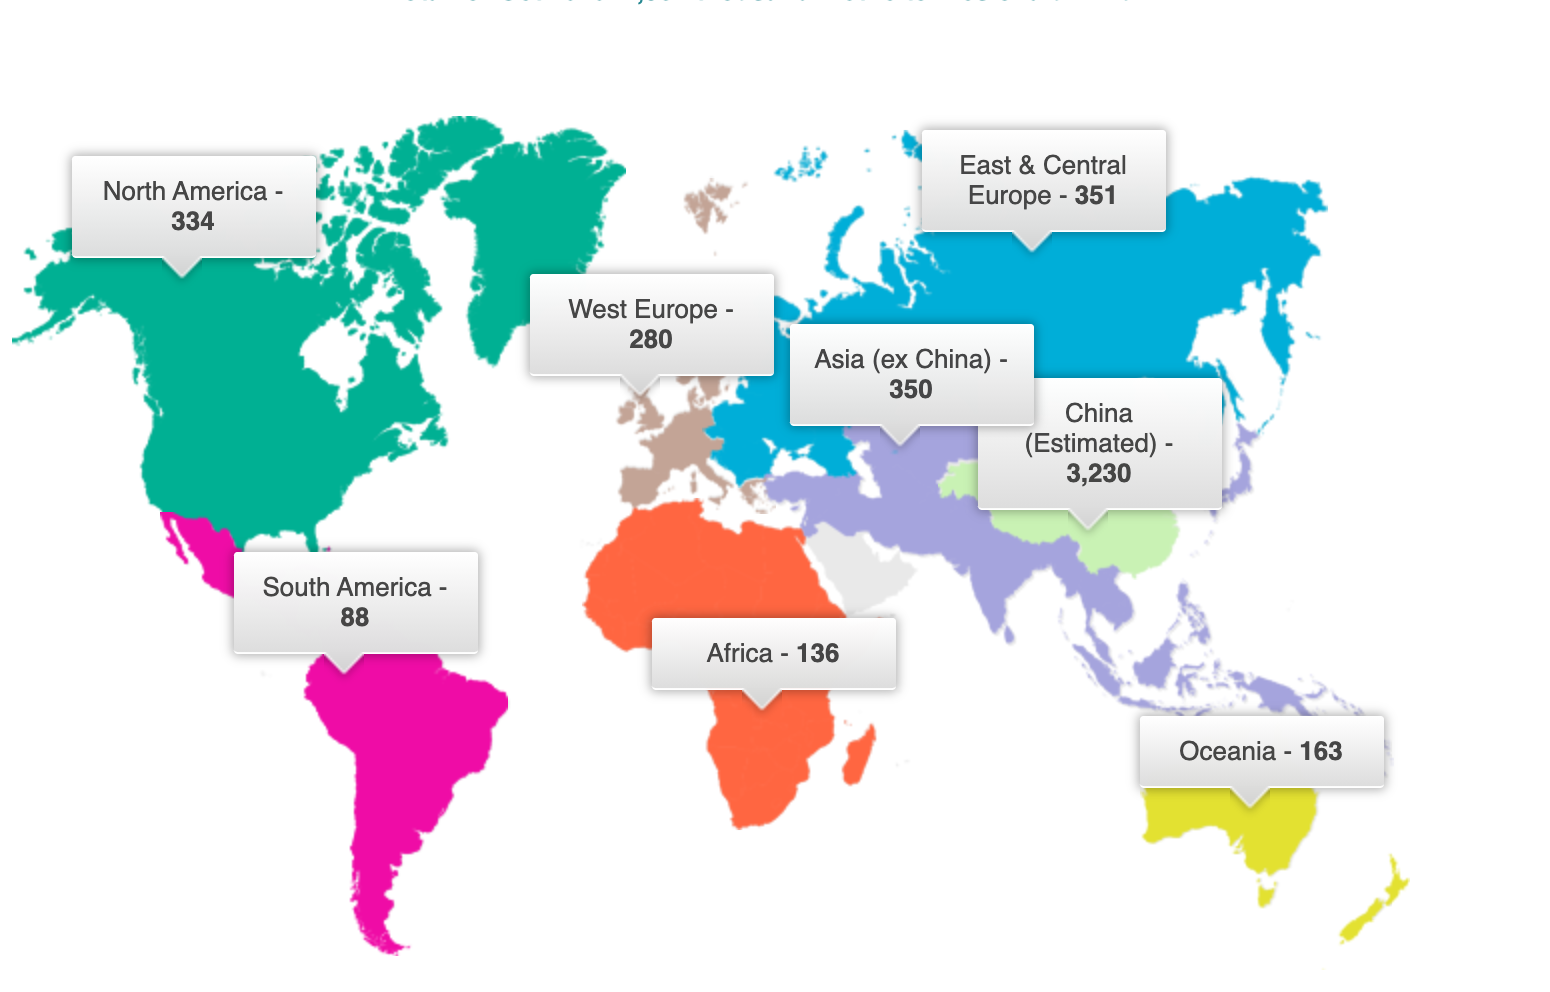
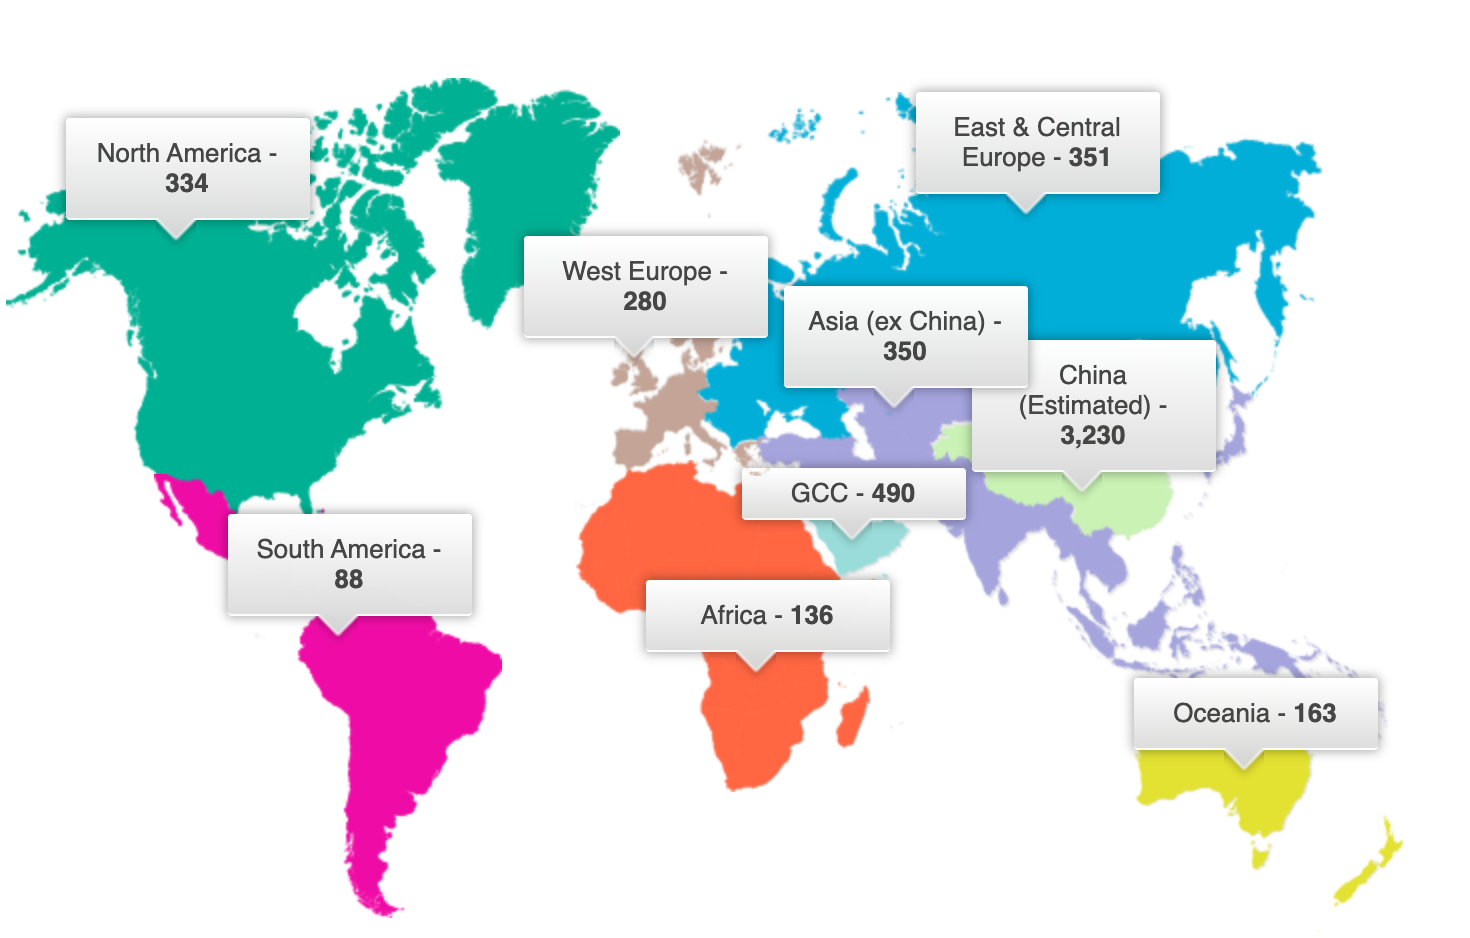
add

Changed region(s): [[0.0, 0.0618, 0.949, 0.9584], [0.0918, 0.4638, 0.3367, 0.9893], [0.0306, 0.1237, 0.0612, 0.1546]]

diff --git a/xFinal_pres/index.html b/xFinal_pres/index.html
@@ -88,6 +88,7 @@
   </div>
       <br><br><hr><br><br>
       <iframe title="Aluminum Production Total for Oct. 2020" aria-label="Map" id="datawrapper-chart-Ff3NN" src="https://datawrapper.dwcdn.net/Ff3NN/1/" scrolling="no" frameborder="0" style="width: 0; min-width: 100% !important; border: none;" height="476"></iframe><script type="text/javascript">!function(){"use strict";window.addEventListener("message",(function(a){if(void 0!==a.data["datawrapper-height"])for(var e in a.data["datawrapper-height"]){var t=document.getElementById("datawrapper-chart-"+e)||document.querySelector("iframe[src*='"+e+"']");t&&(t.style.height=a.data["datawrapper-height"][e]+"px")}}))}();
+    </script>
 
   <div class="row justify-content-center">
     <div class="col-10">
@@ -98,34 +99,19 @@
     <div class="col-7" style="min-width: 600px">
 
 
-      <p>In fact, when many can-recycling programs temporarily closed due to the COVID-19 pandemic earlier this year, the United States simply increased imports of used beverage can scrap metal.</p>
+
 
     </div>
   </div>
 </div>
-<img src="oct_2020.jpg" alt="graph" >
-<p class="caption">Solomon Simmons in his East Baltimore home (Photo by Amina Lampkin | University of Maryland)</p>
+
+
+<img src="oct_2020.jpg"  alt="gragh" height="700px" width="1150px">
+<p class="caption">Source: @2020, The International Aluminum Institute</p>
 <div class="container">
   <div class="row justify-content-center">
     <div class="col-7" style="min-width: 600px">
-      <p>Public health studies have shown that without community cohesion, residents are at more risk when temperatures soar. Baltimore health officials say that isolation is always a danger to health.</p>
-      <p>Today, Simmons said, many of his old neighbors have died. Only about four people remain from the group of homeowners his mother met when she moved to McElderry Park in the 1980s.</p>
-      <p>“Pride is gone,” he said.</p>
-      <p>He will not put an air-conditioning unit in a first-floor window facing the street “because of security.” He has air conditioning in his bedroom, but he’s mindful that using it costs money.</p>
-      <p>“One of the things that does concern me is that my electric bill will probably be a lot more just trying to stay cool.”</p>
-      <p>He said he didn’t know about cooling centers but would rather take an air-conditioned drive or go to the movies than sit in a cooling center.</p>
-      <p>Alexander, retired from Armco Steel and the Baltimore school system, follows the old Baltimore practice of scrubbing her rowhouse’s white marble steps often. She used to scrub the steps of neighbors’ houses as well. “It’s important to me,” she said. “This is where I live.”</p>
-    </div>
-  </div>
-</div>
-<img src="harriett-alexander.jpg"  class="harriett_img" alt="Harriett Alexander">
-<p class="caption">Harriett Alexander, with her dog, Shakur, doesn’t like using her air conditioner because she might not hear someone breaking into her house. (Photo by Maris Medina | University of Maryland) </p>
-<div class="container">
-  <div class="row justify-content-center">
-    <div class="col-7" style="min-width: 600px">
-      <p>She tends large pots of hostas and lilies that bloom next to her rowhouse steps, and on summer days she sits in the shade of a mature sidewalk tree and chats with neighbors. She has air conditioning in her second-floor bedroom but doesn’t like using it because she fears she wouldn’t hear if anyone was breaking into her house.</p>
-      <p>“I don’t think it safe to live in a house with an air conditioner running, drowning out everything else,” Alexander said. “You don’t know someone’s in your house until they’re in your room.”</p>
-      <p>But especially for children, older residents and people coping with chronic diseases, air conditioning is the answer.</p>
+
   <div class="image1-container">
     <div class="quote">
               “We wouldn’t need cooling centers if we had healthy neighborhoods.”
@@ -134,104 +120,33 @@
       </div>
     </div>
   </div>
-      <p>Tammy Jackson, who has asthma, said she had to stop cooking dinner one July evening when the heat made it hard for her to breathe. The next day, she told her husband, “Baby, I can’t cook until I get AC.”</p>
-      <p>Even if someone from McElderry Park decided to find a cooling center, some centers were closed on the weekend. The closest center open Saturday and Sunday was about a mile away — a long walk for the young or the old in 100-degree heat.</p>
-      <p>Jennifer Martin, Baltimore's deputy health commissioner for population health and disease prevention, said she was “sad and surprised” to hear so many people were unaware of the cooling centers.</p>
-      <p>By the end of July, the health department had declared 12 Code Red days this year, and the department counted 2,454 people who had visited cooling centers.</p>
-      <p>Martin said the health department is working with community groups to find places in addition to city-owned buildings — maybe churches or community associations — where residents could find a place with air conditioning. Those would offer relief closer to home.</p>
-      <p>Scott, the City Council president, said that cooling centers are fine but may not be the answer for everyone. “We have to understand the culture of the neighborhood. Some people are not going to want to be leaving their homes to get cool,” he said.</p>
-      <p>Lewis said, “We wouldn’t need cooling centers if we had healthy neighborhoods.”</p>
-      <h2 class="chapter-headline">Heading off catastrophe</h2>
-      <p>Twenty people have died of heat-related illnesses in Maryland so far this year, three of them in Baltimore, according to state data through Aug. 28.</p>
-      <p>From July 16 through July 22, when the heat wave broke, 47 people went to emergency rooms when the heat aggravated chronic conditions such as heart disease, diabetes or lung problems.</p>
-      </div>
-    </div>
-  <div class="row justify-content-center">
-    <div class="col-10">
-      <br><br><hr><br><br>
-      <iframe title="Baltimore has more than its share of heat-related deaths in Maryland" aria-label="Bar Chart" id="datawrapper-chart-APbij" src="https://datawrapper.dwcdn.net/APbij/1/" scrolling="no" frameborder="0" style="width: 0; min-width: 100% !important; border: none;" height="1223"></iframe><script type="text/javascript">!function(){"use strict";window.addEventListener("message",(function(a){if(void 0!==a.data["datawrapper-height"])for(var e in a.data["datawrapper-height"]){var t=document.getElementById("datawrapper-chart-"+e)||document.querySelector("iframe[src*='"+e+"']");t&&(t.style.height=a.data["datawrapper-height"][e]+"px")}}))}();
-  </script>
+<p>In fact, when many can-recycling programs temporarily closed due to the COVID-19 pandemic earlier this year, the United States simply increased imports of used beverage can scrap metal.</p>
+<p>Instead, the shortage relates to circulation and production capacity.</p>
+<p>With COVID-19 keeping many Americans at home, Bray said, people seem to be abandoning the notion of soda as a treat to enjoy in bars and restaurants — now, they are stocking up on soda cans to sip at home.</p>
+<p>This new phenomenon has Coca-Cola, as well as other major canned beverage producers, scrambling to keep products on the shelves.</p>
+<p>PepsiCo — Coca-Cola’s primary rival — referred questions to Danielle Smotkin, spokesperson of the American Beverage Association, which represents the non-alcoholic beverage industry.</p>
+<p>“Beverages in convenient, take-home packages like aluminum cans are particularly popular right now, and beverage company employees are doing all they can to make sure store shelves remain fully stocked,” Smotkin said in an email.</p>
+<p>Coca-Cola spokeswoman Ann Moore expressed a similar sentiment, adding that her company is encouraging shoppers to enjoy their favorite niche sodas in glass and plastic bottles.</p>
+<p>“We have added additional aluminum can capacity, but demand still may outpace supply at times,” Moore said in an email to CNS.</p>
+<p>The beer industry is having can problems, too.</p>
+<p>Canned beer had been making strong gains on bottled beer even before the initial COVID-19 disruption, according to the National Beer Wholesalers Association, which represents beer distributors.</p>
+<p>In 2019, cans accounted for 60% of sales, while glass bottles accounted for 30% and draft beer 10%. In 2020, canned beer sales rose to 67% and  bottled beer share rose to 33%. Draft beer remained out of the marketplace for most of the late spring and early summer months of 2020.</p>
+<p>The beer wholesalers said that draft beer is not expected to make a big comeback before the end of 2020, and packaged beer will continue to face supply constraints for the rest of the year.</p>
+<p>In the District of Columbia, local breweries have been impacted by the aluminum can shortage, said Paul J. Dean, executive director of the District of Columbia Brewers Guild.</p>
+<p>“The bottom line is yes, this is certainly a real thing, it’s definitely causing a big inconvenience to our local brewers,” Dean said.</p>
+<p>As more people began to consume beer at home and taprooms reduced capacity or shut down, breweries had to shift to selling products to-go or through wholesalers and retailers. This increased the need for cans, which eventually led to a shortage, Dean explained.</p>
+<p>Fortunately, the local brewing business is a “pretty tight-knit community,” Dean said.  Whenever a brewery has extra cans, a rare occurrence, it sells it to other breweries in need, Dean said.</p>
+<p>Members of the District’s brewers guild include Bluejacket DC, DC Brau, Red Bear Brewing Co., and Hellbender Brewing Company.</p>
+<p>In the face of this major can shortage, some brewers have had to get creative.</p>
+<p>In Colorado Springs, Colorado, Pete Kilman of Storybook Brewing bought thousands of unused cans from a Texas brewery that had closed down in April, then had each can shrink-wrapped with a new Storybook label.</p>
+<p>“I don’t really know what to expect,” Kilman said. “I think that they’re going to have to figure out a way to manufacture more cans if we continue on this trend, because they’re not keeping up very well as it is.”</p>
+<p>One of America’s major can manufacturers is the Ball Corporation. Ball is a major member of the Can Manufacturers Institute, a trade association.</p>
+<p>Institute President Robert Budway said in an email that manufacturers like Ball, North America’s largest producer of recycled aluminum cans, are “fully focused on filling the extraordinary demand from all sectors of the industry’s customer base”.</p>
+<p>Ball spokesman Scott McCarty said that the spike in demand the company has seen from its beverage-producing customers during the COVID-19 pandemic was “really unplanned” — and the end does not seem to be near just yet.</p>
+<p>“I think demand is going to stay high the rest of the year,” McCarty said.</p>
+<p>Meanwhile, neither Coca-Cola nor PepsiCo have said when fans of niche drinks like Katie Duncan can expect to see their favorite cans back on the shelves of grocery stores on a more regular basis.</p>
+<p>“I’m very much hoping to see it soon,” Duncan said.</p>
 
-      <br><br><hr><br><br>
-    </div>
-  </div>
-  <div class="row justify-content-center">
-    <div class="col-7" style="min-width: 600px">
-      <p>Yet it could have been worse. Heat catastrophes are not theoretical. In Chicago in 1995, more than 700 people died during a five-day heat wave.</p>
-      <p>And summer heat will get more extreme. With every year, researchers warn, temperatures will soar higher and the heat waves will last longer — putting more pressure on city governments to help residents cope.</p>
-      <p>Historically, the Baltimore area has averaged about six days a year when the heat index exceeded 100 degrees, according to new research from the Union of Concerned Scientists and the University of Idaho.</p>
-      </div>
-    </div>
-    <div class="row justify-content-center">
-      <div class="col-6" style="min-width: 500px">
-        <div class="sidebar">
-        <h2 class="sidebar-headline">State of the Climate 2018</h2>
-        <p class="sidebar-description">The American Meteorological Society releases a State of the Climate report each summer summarizing data collected by global environmental monitoring stations around the world. In 2018, here were five key findings.</p>
-        <ul class="ul-sidebar">
-          <li class="li-sidebar">2018 was the fourth warmest year, behind only 2016, 2015 and 2017. Since the start of the 21st Century, every year has been hotter than the global average temperature recorded from 1981 to 2010.</li>
-          <li class="li-sidebar">Glaciers have continued to melt for the 30th year in a row. In 2018, approximately one meter of ice melted off the top of the average glacier.</li>
-          <li class="li-sidebar">Sea levels rose for the seventh year in a row. The annual mean sea level is the highest it’s been in 26 years.</li>
-          <li class="li-sidebar">The global average carbon dioxide concentration at Earth’s surface is the highest ever recorded according to data that goes back 800,000 years. Carbon dioxide, methane and nitrous oxide released in the atmosphere continue to increase.</li>
-          <li class="li-sidebar">Arctic air temperatures rose at twice the rate of the rest of the Earth with the five past years’ Arctic temperatures surpassing records since 1900.</li>
-        </ul>
-      </div>
-    </div>
-  </div>
-    <div class="row justify-content-center">
-      <div class="col-7" style="min-width: 600px">
-      <p>If no action is taken to reduce carbon emissions, by mid-century that figure will rise to more than 37 days annually, according to the researchers. The study defines mid-century as starting in 17 years.</p>
-      <p>By the end of the century, as a baby born today becomes a senior citizen, there will be 65 days with a heat index of 100 degrees or higher, the researchers projected. That’s about the same number as McAllen, Texas, a city that abuts the Mexican border.</p>
-      <p>Peter Beilenson, Baltimore’s health commissioner from 1992 to 2005, now the health services director of Sacramento County, California, said health departments could use different strategies to deal with extreme heat.</p>
-      <p>Public health workers could be redirected during heat waves to knock on doors of people who are most vulnerable to heat, he said. That would allow workers to hand out information on cooling centers and give them a chance to assess whether the resident needs to go to the emergency room.</p>
-      <p>The Baltimore health department has done this to deal with other problems, Beilenson said — for example, to check on tuberculosis patients or alert residents to the dangers of lead paint.</p>
-      <p>Candidates for office have long used data that tells them which doors to knock on to meet potential voters. Health workers, Beilenson said, could use data to find the most vulnerable during heat waves.</p>
-      <p>Martin said the health commissioner had recorded a call warning of the heat that was sent to older people who have used the city's services for aging. But during the 100-degree Code Red emergency, Martin said, the health department did not send teams into neighborhoods.</p>
-      <p>“Being able to identify vulnerable areas [where people are especially endangered by heat] is very challenging,” she said. Also, “in a heat wave, everyone is at risk, including people who knock on doors.”</p>
-      <h2 class="chapter-headline">Trees help with heat</h2>
-      <p>When Baltimore officials are asked how the city is preparing for the more extreme temperatures ahead, several people point to the efforts by City Hall and volunteer groups to plant more trees. Citywide, the tree canopy in 2015 was 28%, up from 27% in 2007.</p>
-      <p>In 2015, many East Baltimore neighborhoods had a tree canopy of about 10%, according to a Howard Center analysis of tree canopy data gathered by researchers at the U.S. Forest Service and the University of Vermont Spatial Analysis Lab. Many blocks had no trees at all.</p>
-      <p>Some city officials resist questions about where climate change falls on the list of government priorities when City Hall has to deal with poverty, crime, police corruption, poor schools and crumbling infrastructure.</p>
-      <p>“I don’t like to rank things,” said Scott, the City Council president. “For me, when you’re thinking about issues like heat, that’s connected to safety. It’s all interconnected. We need to stop thinking in silos.”</p>
-      <p>He acknowledges that “trees and climate change were not a high priority for mayors and council members of Baltimore’s past.”</p>
-      <p>The question, said Scott, who is expected to be a mayoral candidate next year, is “how can we evolve and get more innovative about this discussion?”</p>
-      <p>At the end of July, Scott released an agenda with 26 priorities for the coming council year. Climate change was not among them.</p>
-      <h2 class="chapter-headline">Rowhouses in the heat</h2>
-      <p>Rowhouses efficiently conserve heat — which is welcome in the winter, a problem in the summer.</p>
-      <p>On a hot summer day, Melissa Canady walked through the alley behind her rowhouse. The backyard is concrete, poured by a previous owner to create a space that could be cleaned by a broom. Concrete blocks form low walls that separate each yard.</p>
-      <p>“The neighborhood’s so closed in,” she said. “There are so many houses. There’s no air flow. If there was some way you could get some air into the community.”</p>
-    </div>
-  </div>
-</div>
-<img src="melissa-candy.jpg" alt="Melissa Canady" >
-<p class="caption">Melissa Canady says that the concrete block walls in her backyard prevent the flow of air and trap heat behind her house. (Photo by Maris Medina | University of Maryland)</p>
-<div class="container">
-  <div class="row justify-content-center">
-    <div class="col-7" style="min-width: 600px">
-      <p>Her backyard looks out onto a patch of green, the Amazing Port Street commons, a block of green space cared for by Amazing Grace Lutheran Church and created when a row of vacant houses was razed. The neighbors sometimes use it for events such as community cookouts.</p>
-      <p>It’s the largest green space for blocks. But some neighbors said they are reluctant to walk their dogs there for fear they will step on syringes discarded by people who use drugs.</p>
-    </div>
-  </div>
-</div>
-<img src="amazing-grace-garden.jpg" alt="The Amazing Port Street commons" >
-<p class="caption">The garden entrance at Amazing Grace Evangelical Lutheran Church is one of the few green spaces in the McElderry Park neighborhood. (Photo by Ian Round | University of Maryland) </p>
-<div class="container">
-  <div class="row justify-content-center">
-    <div class="col-7" style="min-width: 600px">
-      <h2 class="chapter-headline">Coping with the heat</h2>
-
-
-      <p>As temperatures in Baltimore reached 100 on July 20, most everyone around the city was staying inside. Some of the people on the streets walked under open umbrellas, carrying their own circle of shade. Men wore damp cloths draped under their caps or on the backs of their necks. No one was moving quickly.</p>
-      <p>Few people were on the street. “This is the quietest the block ever been,” Tammy Jackson said. “I can’t believe it.”</p>
-      <p>But city life continued despite the heat. A team of paramedics was called to an East Baltimore block when a resident found a man she didn’t know passed out on her front steps.</p>
-      <p>The paramedics revived the man, who apparently had overdosed, with a dose of Narcan. He stood up and wandered off, rejecting advice he go to the hospital.</p>
-      <p>One of the paramedics, holding a bottle of water, stood on the sidewalk and surveyed the quiet street. Everyone walking around on that scorching afternoon was dehydrated, one paramedic observed. Everyone. Keeping enough fluids in the body is difficult in temperatures so extreme.</p>
-      <p>A little earlier that day, David Brown, 68, sat a few blocks away waiting for a bus. He said he didn’t mind the heat.</p>
-      <p>And what will he do in future summers, as the heat becomes more extreme?</p>
-      <p>“Accept it,” he said.</p>
-      <p><i>Jake Gluck, Jane Gerard, Roxanne Ready, Theresa Diffendal and Sean Mussenden of the University of Maryland contributed to this story. Additional information was also provided by Sean McMinn, Meg Anderson and Nora Eckert of NPR.</i></p>
-
-      <iframe title="Projected number of extreme heat events in Maryland for the year 2040" aria-label="Map" id="datawrapper-chart-rnNpd" src="https://datawrapper.dwcdn.net/rnNpd/2/" scrolling="no" frameborder="0" style="width: 0; min-width: 100% !important; border: none;" height="463"></iframe><script type="text/javascript">!function(){"use strict";window.addEventListener("message",(function(a){if(void 0!==a.data["datawrapper-height"])for(var e in a.data["datawrapper-height"]){var t=document.getElementById("datawrapper-chart-"+e)||document.querySelector("iframe[src*='"+e+"']");t&&(t.style.height=a.data["datawrapper-height"][e]+"px")}}))}();
-  </script>
 
     </div>
   </div>
